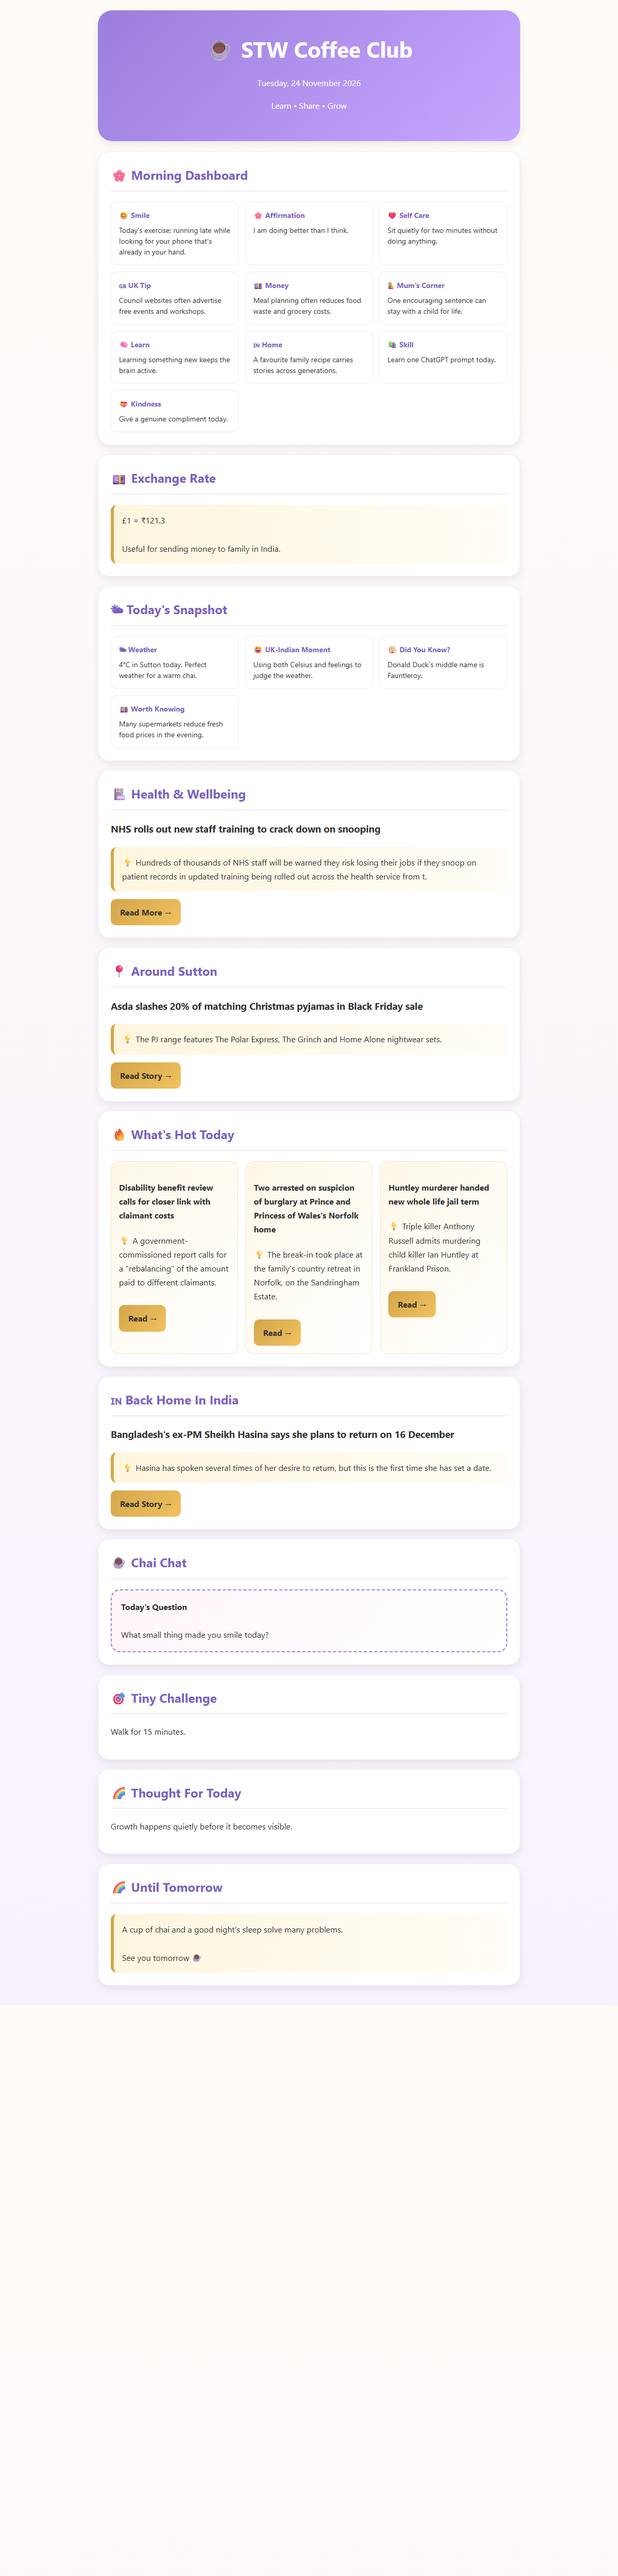
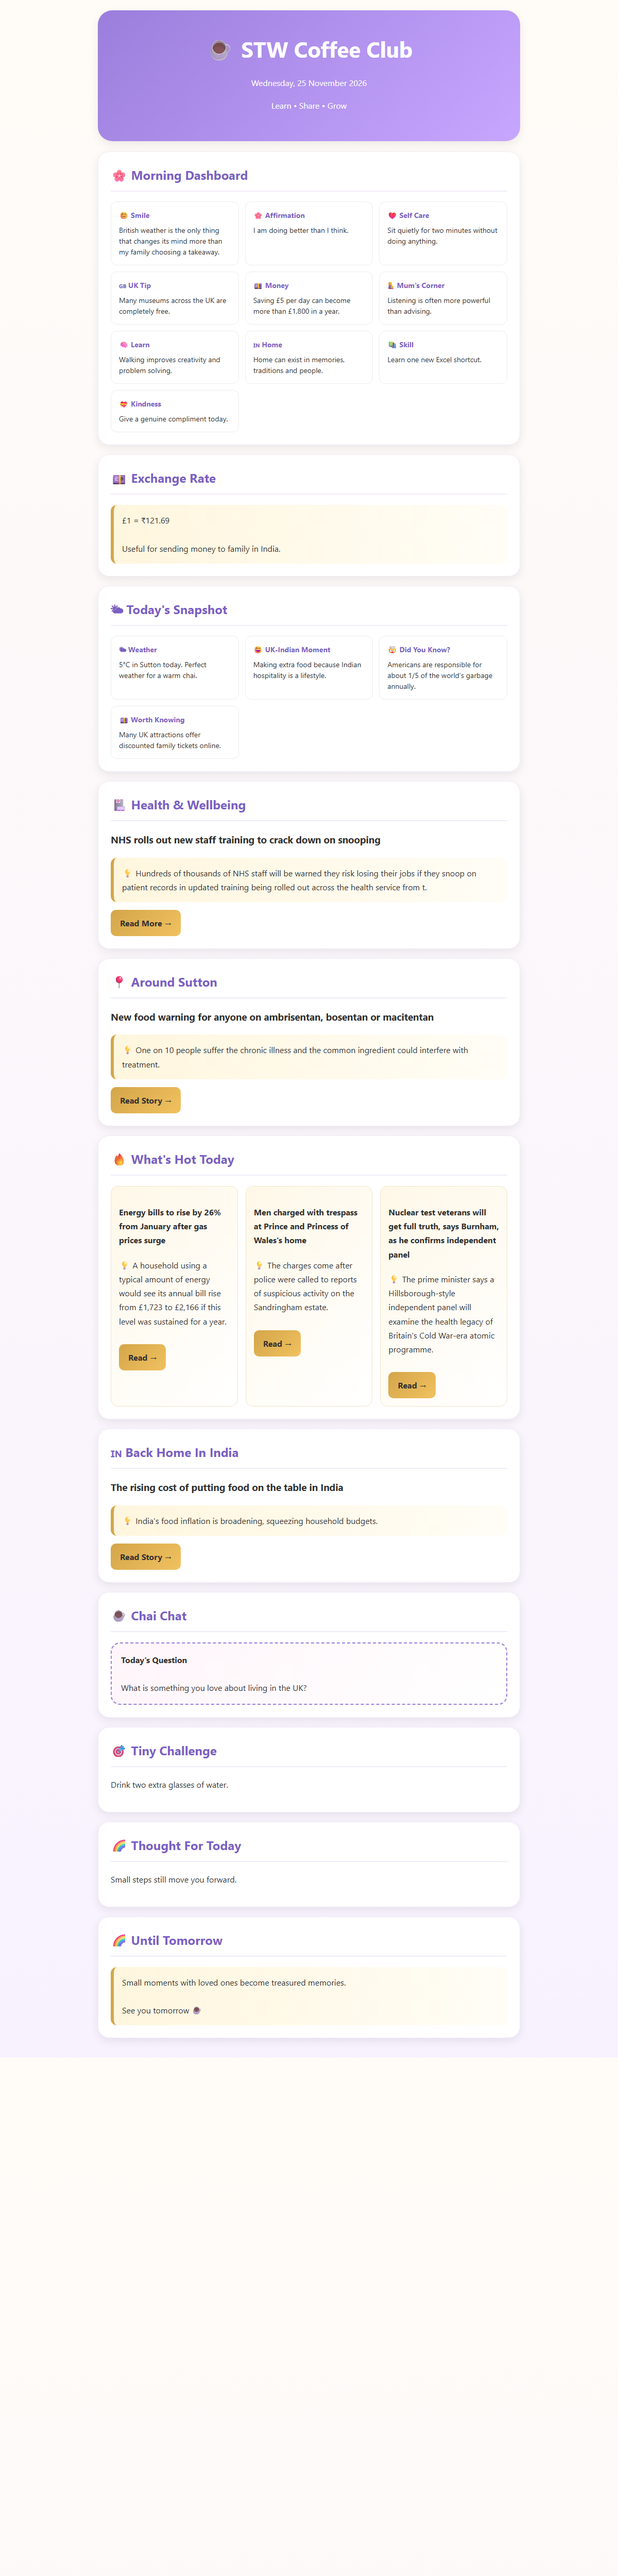
my latest newsletter changes

diff --git a/output/newsletter.html b/output/newsletter.html
@@ -239,7 +239,7 @@ body {
 
 <h1>☕ STW Coffee Club</h1>
 
-<p>Tuesday, 24 November 2026</p>
+<p>Wednesday, 25 November 2026</p>
 
 <p>Learn • Share • Grow</p>
 
@@ -253,7 +253,7 @@ body {
 
         <div class="mini-tile">
             <h4>😊 Smile</h4>
-            Today's exercise: running late while looking for your phone that's already in your hand.
+            British weather is the only thing that changes its mind more than my family choosing a takeaway.
         </div>
 
         <div class="mini-tile">
@@ -268,32 +268,32 @@ body {
 
         <div class="mini-tile">
             <h4>🇬🇧 UK Tip</h4>
-            Council websites often advertise free events and workshops.
+            Many museums across the UK are completely free.
         </div>
 
         <div class="mini-tile">
             <h4>💷 Money</h4>
-            Meal planning often reduces food waste and grocery costs.
+            Saving £5 per day can become more than £1,800 in a year.
         </div>
 
         <div class="mini-tile">
             <h4>👩👧 Mum's Corner</h4>
-            One encouraging sentence can stay with a child for life.
+            Listening is often more powerful than advising.
         </div>
 
         <div class="mini-tile">
             <h4>🧠 Learn</h4>
-            Learning something new keeps the brain active.
+            Walking improves creativity and problem solving.
         </div>
 
         <div class="mini-tile">
             <h4>🇮🇳 Home</h4>
-            A favourite family recipe carries stories across generations.
+            Home can exist in memories, traditions and people.
         </div>
 
         <div class="mini-tile">
             <h4>📚 Skill</h4>
-            Learn one ChatGPT prompt today.
+            Learn one new Excel shortcut.
         </div>
 
         <div class="mini-tile">
@@ -309,7 +309,7 @@ body {
         <h2>💷 Exchange Rate</h2>
         
         <div class="highlight">
-        £1 = ₹121.3
+        £1 = ₹121.69
         <br><br>
         Useful for sending money to family in India.
         </div>
@@ -323,22 +323,22 @@ body {
 
         <div class="mini-tile">
         <h4>🌤 Weather</h4>
-        4°C in Sutton today. Perfect weather for a warm chai.
+        5°C in Sutton today. Perfect weather for a warm chai.
         </div>
 
         <div class="mini-tile">
         <h4>😄 UK-Indian Moment</h4>
-        Using both Celsius and feelings to judge the weather.
+        Making extra food because Indian hospitality is a lifestyle.
         </div>
 
         <div class="mini-tile">
         <h4>🤯 Did You Know?</h4>
-        Donald Duck`s middle name is Fauntleroy.  
+        Americans are responsible for about 1/5 of the world’s garbage annually.
         </div>
 
         <div class="mini-tile">
         <h4>💷 Worth Knowing</h4>
-        Many supermarkets reduce fresh food prices in the evening.
+        Many UK attractions offer discounted family tickets online.
         </div>
 
     </div>
@@ -365,14 +365,14 @@ body {
     <div class="card">
         <h2>📍 Around Sutton</h2>
         
-        <h3>Asda slashes 20% of matching Christmas pyjamas in Black Friday sale</h3>
+        <h3>New food warning for anyone on ambrisentan, bosentan or macitentan</h3>
 
         <div class="highlight">
-        💡 The PJ range features The Polar Express, The Grinch and Home Alone nightwear sets.
+        💡 One on 10 people suffer the chronic illness and the common ingredient could interfere with treatment.
         </div>
 
         <a class="button"
-        href="https://www.getsurrey.co.uk/whats-on/shopping/asda-slashes-20-matching-christmas-34951857"
+        href="https://www.getsurrey.co.uk/news/health/new-food-warning-anyone-ambrisentan-34962538"
         target="_blank">
         Read Story →
         </a>
@@ -385,45 +385,45 @@ body {
     <div class="tile-grid">
     
     <div class="news-tile">
-        <h4>Disability benefit review calls for closer link with claimant costs</h4>
+        <h4>Energy bills to rise by 26% from January after gas prices surge</h4>
 
         <p>
-        💡 A government-commissioned report calls for a "rebalancing" of the amount paid to different claimants.
+        💡 A household using a typical amount of energy would see its annual bill rise from £1,723 to £2,166 if this level was sustained for a year.
         </p>
 
         <a
         class="button"
-        href="https://www.bbc.co.uk/news/articles/cm4gn6gn9057o?at_medium=RSS&at_campaign=rss"
+        href="https://www.bbc.co.uk/news/articles/cm20qnq33e90o?at_medium=RSS&at_campaign=rss"
         target="_blank">
         Read →
         </a>
     </div>
     
     <div class="news-tile">
-        <h4>Two arrested on suspicion of burglary at Prince and Princess of Wales's Norfolk home</h4>
+        <h4>Men charged with trespass at Prince and Princess of Wales's home</h4>
 
         <p>
-        💡 The break-in took place at the family's country retreat in Norfolk, on the Sandringham Estate.
+        💡 The charges come after police were called to reports of suspicious activity on the Sandringham estate.
         </p>
 
         <a
         class="button"
-        href="https://www.bbc.co.uk/news/articles/cr9d7qdg24vno?at_medium=RSS&at_campaign=rss"
+        href="https://www.bbc.co.uk/news/articles/cx5y1987dyp6o?at_medium=RSS&at_campaign=rss"
         target="_blank">
         Read →
         </a>
     </div>
     
     <div class="news-tile">
-        <h4>Huntley murderer handed new whole life jail term</h4>
+        <h4>Nuclear test veterans will get full truth, says Burnham, as he confirms independent panel</h4>
 
         <p>
-        💡 Triple killer Anthony Russell admits murdering child killer Ian Huntley at Frankland Prison.
+        💡 The prime minister says a Hillsborough-style independent panel will examine the health legacy of Britain's Cold War-era atomic programme.
         </p>
 
         <a
         class="button"
-        href="https://www.bbc.co.uk/news/articles/cm930y07p0j2o?at_medium=RSS&at_campaign=rss"
+        href="https://www.bbc.co.uk/news/articles/c6808k8dxvgko?at_medium=RSS&at_campaign=rss"
         target="_blank">
         Read →
         </a>
@@ -436,14 +436,14 @@ body {
     <div class="card">
         <h2>🇮🇳 Back Home In India</h2>
         
-        <h3>Bangladesh's ex-PM Sheikh Hasina says she plans to return on 16 December</h3>
+        <h3>The rising cost of putting food on the table in India</h3>
 
         <div class="highlight">
-        💡 Hasina has spoken several times of her desire to return, but this is the first time she has set a date.
+        💡 India's food inflation is broadening, squeezing household budgets.
         </div>
 
         <a class="button"
-        href="https://www.bbc.co.uk/news/articles/c60rk1yj07xeo?at_medium=RSS&at_campaign=rss"
+        href="https://www.bbc.co.uk/news/articles/cmy0xj41kl50o?at_medium=RSS&at_campaign=rss"
         target="_blank">
         Read Story →
         </a>
@@ -458,7 +458,7 @@ body {
 
     <br><br>
 
-    What small thing made you smile today?
+    What is something you love about living in the UK?
 
     </div>
     
@@ -466,19 +466,19 @@ body {
     
     <div class="card">
         <h2>🎯 Tiny Challenge</h2>
-        <p>Walk for 15 minutes.</p>
+        <p>Drink two extra glasses of water.</p>
     </div>
     
     <div class="card">
         <h2>🌈 Thought For Today</h2>
-        <p>Growth happens quietly before it becomes visible.</p>
+        <p>Small steps still move you forward.</p>
     </div>
     
     <div class="card">
         <h2>🌈 Until Tomorrow</h2>
         
     <div class="highlight">
-    A cup of chai and a good night's sleep solve many problems.
+    Small moments with loved ones become treasured memories.
     <br><br>
     See you tomorrow ☕
     </div>

diff --git a/newsletter.py b/newsletter.py
@@ -789,28 +789,68 @@ except Exception as e:
     )
 whatsapp = f"""
 ☕ *STW Coffee Club*
-
 📅 {TODAY}
+"""
 
-😊 {random.choice(DATA['smiles'])}
+if nhs:
+    whatsapp += f"""
 
-🌤 {weather()}
+🏥 *Health & Wellbeing*
 
-😄 {random.choice(DATA['uk_indian_moments'])}
+{nhs['title']}
 
-💷 {random.choice(DATA['worth_knowing'])}
+🔗 {nhs['link']}
+"""
+
+if surrey:
+    whatsapp += f"""
+
+📍 *Around Sutton*
+
+{surrey['title']}
+
+🔗 {surrey['link']}
+"""
+
+for story in top_uk:
+    whatsapp += f"""
+
+🇬🇧 *UK Headline*
+
+{story['title']}
+
+🔗 {story['link']}
+"""
+
+if india:
+    whatsapp += f"""
+
+🇮🇳 *India News*
+
+{india['title']}
+
+🔗 {india['link']}
+"""
+
+if money:
+    whatsapp += f"""
+
+💷 *Money Saving*
+
+{money['title']}
+
+🔗 {money['link']}
+"""
+
+whatsapp += f"""
 
 ☕ Chai Chat
 
 {random.choice(DATA['questions'])}
 
-🎯 Today's Challenge
+🎯 Challenge
 
 {random.choice(DATA['challenges'])}
-
-🌈 Thought
-
-{random.choice(DATA['thoughts'])}
 """
 
 with open(
